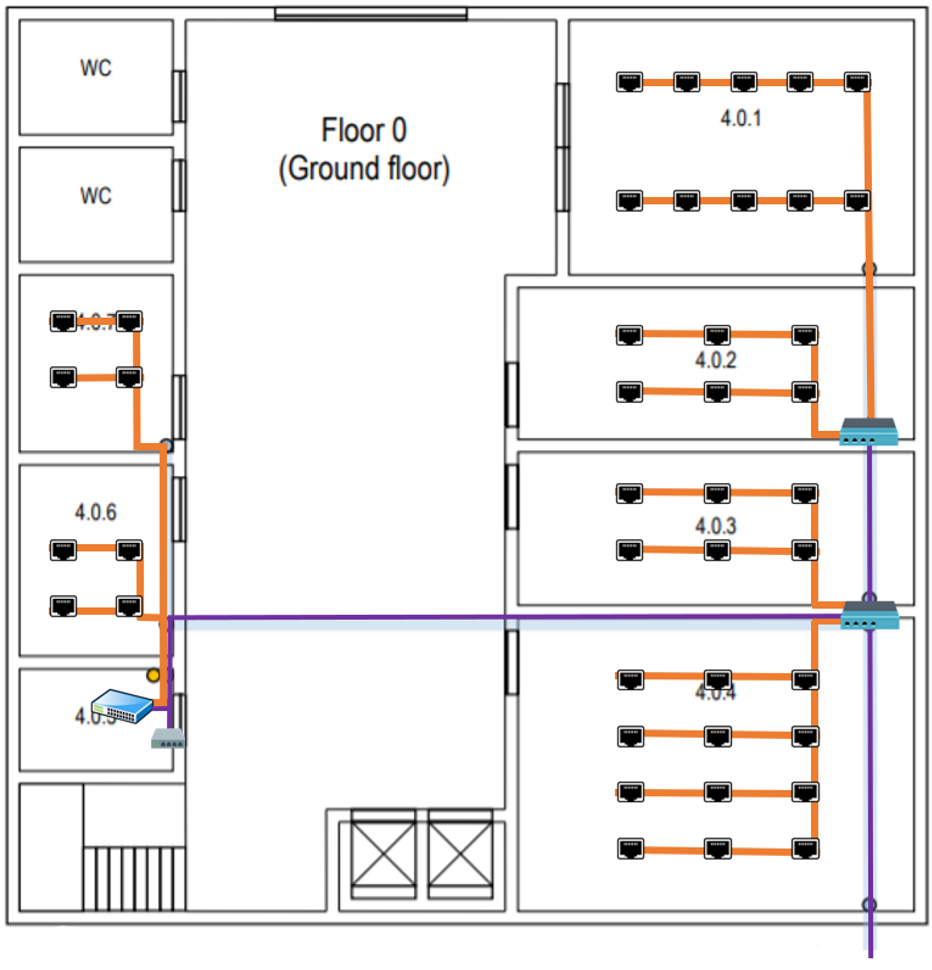
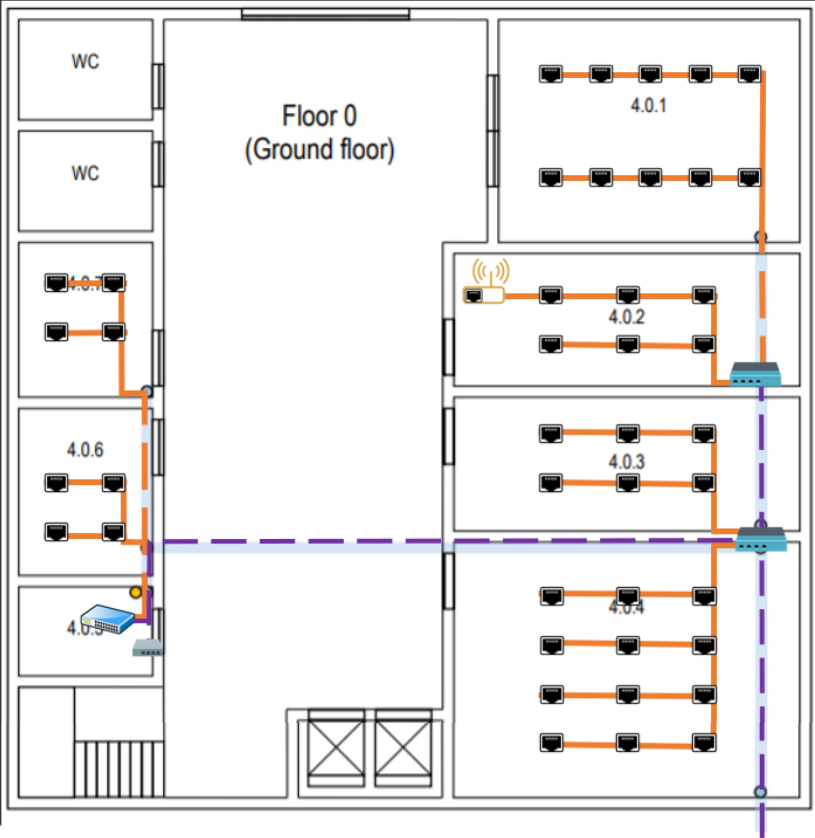
Building 4 - Floor One Coverage, Plants correction, document update

Changed region(s): [[0.0, 0.0, 1.0, 1.0], [0.2761, 0.0931, 0.4908, 0.2172], [0.092, 0.0621, 0.1227, 0.0931]]

diff --git a/doc/sprint1/1201382/README.md b/doc/sprint1/1201382/README.md
@@ -3,9 +3,18 @@ RCOMP 2021-2022 Project - Sprint 1 - Member 1201382 folder
 (This folder is to be created/edited by the team member 1201382 only)
 
 ## These were the followed structured cabling standards:
-- Minimum of 2 outlets per work area.
-- Ratio of 2 outlets for every 10 square meters of area
 
+- Minimum of 2 outlets per work area.
+- Proportion of 2 outlets for every 10 square meters of area.
+- Patch cords can reach up to 5 meters.
+- There must always be an outlet less than 3 meters from the user's equipment.
+- Work areas require copper cable outlets.
+- Each cable (whatever type) length should be less than 90 meters.
+- The total area covered by a horizontal cross-connect should be less than 1000 m2.
+- Straight line distance between the horizontal cross-connect and the outlet should be less than 80 meters.
+- Cables connecting an intermediate cross-connect (IC) to a horizontal cross-connect (HC) are limited to 500 meters in length.
+- Cables connecting the main cross-connect (MC) to an IC are limited to 1500 meters in length.
+- The number of cables entering a telecommunications cabinet must always be less than 200.
 
 ## Important remarks
 
@@ -49,10 +58,11 @@ RCOMP 2021-2022 Project - Sprint 1 - Member 1201382 folder
 
 ### Cables Layout:
 Bearing in mind that on this floor, the cables are passed under the ground, the following procedure was carried out:
-![Floor0_cablesLayout](resources/Building4_GroundFloor_cables.png)
+
+![Floor0_cablesLayout](resources/Building4_GroundFloor_Cables.png)
 
 ### Access Point
-* Bearing in mind that an Access Point covers a radius of 25m, with the building having 20x20x7m, choosing a midpoint and placing there the access point, the entire building will be covered.
+* Bearing in mind that an Access Point covers a radius of 25m, with the floor having 20x20x7m, choosing a midpoint and placing there the access point, the entire floor will be covered.
 * Therefore, the Acess Point is located in the room 4.0.2.
 * The acess point is connected to an outlet using a CAT7 copper cable.
 
@@ -64,21 +74,20 @@ Bearing in mind that on this floor, the cables are passed under the ground, the 
 * The connection to the HC is via the underfloor cable raceway.
 
 ### Horizontal cross-connect
-* Bearing in mind that one HC covers about 1000m2 and the building has 400m2, one HC is enough for the whole building.
+* Bearing in mind that one HC covers about 1000m2 and the floor has 400m2, one HC is enough for the whole floor.
 
 ### Intermediate cross-connect
+* The building's datacentre is located in room 4.0.5 so the Intermediate cross-connect was placed in this room located in the same technical cabinet as the Horizontal cross-connect.
+* The IC receives optical fiber from the MC and passes the optical fiber to the two HC's in this building.
 
 ### Main cross-connect
-
-![Floor0_cablesLayout](resources/Building4_GroundFloor_AccessPoint.png)
+* The campus datacentre is located in room 1.0.2 of building 1 so the main cross-connect was placed in this room.
 
 ### Cables used and respective quantities
 * The outlets are numbered from left to right, top to bottom.
 
 ##### CAT7 Copper Cable
-
 ###### Sala 4.0.1.
-
 | Outlet |	Quantity CAT7 (m) |	
 |-------------|-------------|
 | 1 | 13,46	|
@@ -91,11 +100,8 @@ Bearing in mind that on this floor, the cables are passed under the ground, the 
 | 8 | 7,98  |
 | 9 | 6,60  |
 | 10 | 5,22 |
-
 Total = 93,41m
-
 ###### Sala 4.0.2.
-
 | Outlet |	Quantity CAT7 (m) |	
 |-------------|-------------|
 | 1 | 7,96	|
@@ -104,11 +110,8 @@ Total = 93,41m
 | 4 | 6,53 |
 | 5 | 4,34 |
 | 6 | 2,14 |
-
 Total = 30.31m
-
 ###### Sala 4.0.3.
-
 | Outlet |	Quantity CAT7 (m) |	
 |-------------|-------------|
 | 1 | 5,69 |
@@ -123,38 +126,40 @@ Total = 30.31m
 | 10 | 9,58 |
 | 11 | 7,38 |
 | 12 | 5,18 |
-
 Total = 65,19m
-
 ###### Sala 4.0.6.
-
 | Outlet |	Quantity CAT7 (m) |	
 |-------------|-------------|
 | 1 | 7,15 |
 | 2 | 5,05 |
 | 3 | 5,45 | 
 | 4 | 3,35 |
-
 Total = 21m
-
 ###### Sala 4.0.7.
-
 | Outlet |	Quantity CAT7 (m) |	
 |-------------|-------------|
 | 1 | 12,21 |
 | 2 | 10,2 |
 | 3 | 10,63 | 
 | 4 | 8,62 |
-
 Total = 41,66m
 
 ##### Fiber Optic Cable
-
 * From the HC to the CP (room 4.0.4) - 18,28m
 * Between CPs (rooms 4.0.2 and 4.0.4) - 3,67m
 * From MC and other building's ICs - 7,55m (indoors)
 
 ##### Telecommunications Offices
+###### Sala 4.0.2.
+* Since it has associated 16 outlets, there will be 16 connections, so a 24-port CAT7 patch panel will be needed, which is 1U in size.
+###### Sala 4.0.4.
+* Since it has associated 18 outlets, there will be 18 connections, so a 24-port CAT7 patch panel will be needed, which is 1U in size.
+###### Sala 4.1.6.
+* Since the HC connects to the IC and the 2 CP's will need a Fiber Patch Panel, which is 1U in size. As the IC connects to the HC and MC through fiber optic cable, one more Fiber Patch Panel will be needed, which is 1U in size.
+* Conecta diretamento tbm a 8 outlets.
+* O espaço guardado para os equipamentos ativos terá um tamanho de 3U.
+* Irá ser adicionado, para além do valor já calculado, um tamanho extra de 6U.
+* Posto isto, o tamanho total para este gabinete de telecomunicações será de 12U.
 
 ### Inventory:
 
@@ -207,16 +212,23 @@ In order to calculate the area of division 4.1.1, the division was divided into 
 ![Floor1_cablesLayout](resources/Building4_FloorOne_cables.png)
 
 ### Access Point
-* Bearing in mind that an Access Point covers a radius of 25m, with the building having 40x40x7m, choosing a midpoint and placing there the acess point, the entire building will be covered.
-* Therefore, the Acess Point is located in the room 4.0.2.
+* Bearing in mind that an Access Point covers a radius of 25m, with the floor having 20x20x7m, choosing a midpoint and placing there the acess point, the entire floor will be covered.
+* Therefore, the Acess Point is located between the rooms 4.1.2 and 4.1.3. .
+* The acess point is connected to the 4.1.1 room's consolidation point using a CAT7 copper cable.
+
+* ![Floor1_acessPoint](resources/Building4_FloorOne_AccessPoint_Radius.png)
+
 
 ### Consolidation Points
 * On this floor, were placed 3 consolidation points - one in the room 4.1.1. and the other in 4.1.3. and 4.1.7
 * The connection to the HC is via the underfloor cable raceway.
 
 ### Horizontal cross-connect
+* * Bearing in mind that one HC covers about 1000m2 and the floor has 400m2, one HC is enough for the whole floor.
+
 
 ### Intermediate cross-connect
+* Não tem IC este piso
 
 ### Main cross-connect
 
@@ -334,6 +346,23 @@ Total = 64,29m
 * From the HC to the CP (room 4.1.7) - 18,98m
 
 ##### Telecommunications Offices
+
+###### Sala 4.1.1.
+* Since it has associated 18 outlets, there will be 18 connections, so a 24-port CAT7 patch panel will be needed, which is 1U in size.
+
+###### Sala 4.1.4.
+* Since it has associated 16 outlets, there will be 16 connections, so a 24-port CAT7 patch panel will be needed, which is 1U in size.
+
+###### Sala 4.1.6.
+* Since the HC connects to the IC and the 3 CP's will need a Fiber Patch Panel, which is 1U in size. As the IC connects to the HC and MC through fiber optic cable, one more Fiber Patch Panel will be needed, which is 1U in size.
+* O espaço guardado para os equipamentos ativos terá um tamanho de 3U.
+* Irá ser adicionado, para além do valor já calculado, um tamanho extra de 6U.
+* Posto isto, o tamanho total para este gabinete de telecomunicações será de 12U.
+
+###### Sala 4.1.7.
+* Since it has associated 24 outlets, there will be 24 connections, so a 24-port CAT7 patch panel will be needed, which is 1U in size.
+
+
 
 ### Inventory:
 
